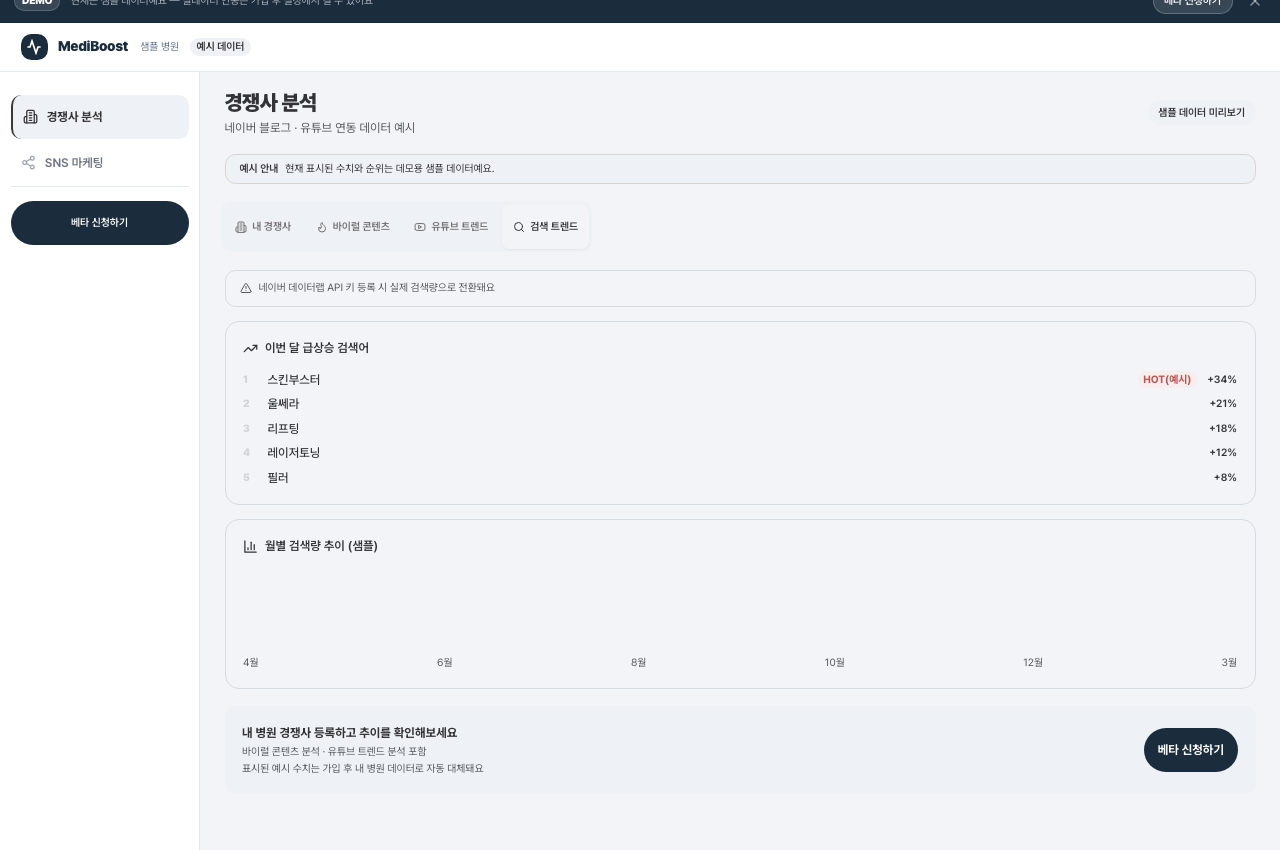
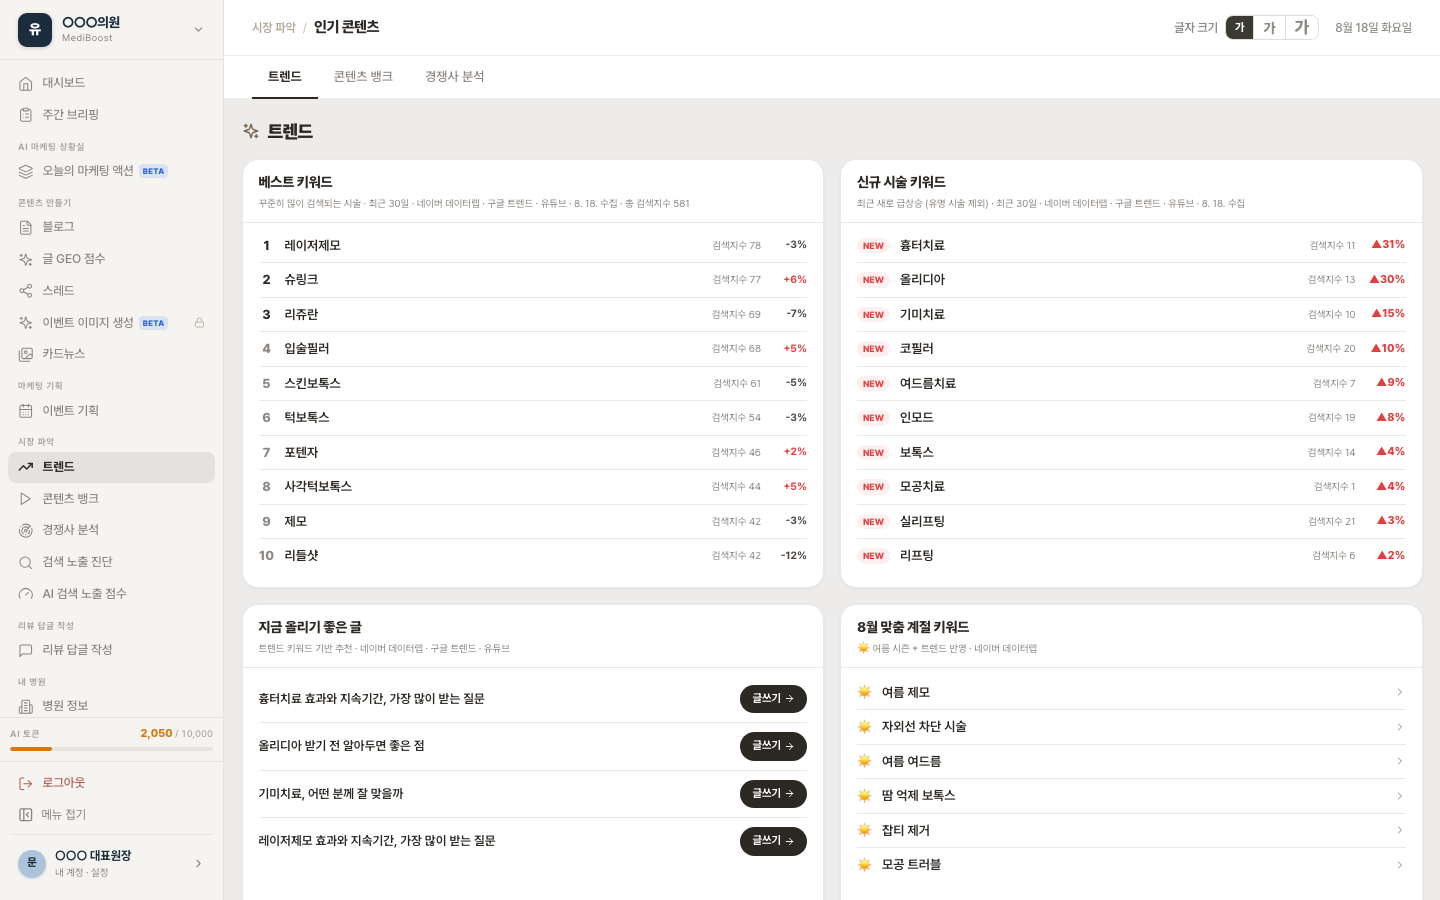
V1 트렌드 실화면 교체 · 순위 슬라이드 재구성 · 영문 캡처 정리
- 계절 키워드 슬라이드를 메디부스트 V1 로그인 대시보드 실화면으로
  교체 (베스트 키워드 · 신규 급상승 · 8월 맞춤 계절 키워드 · 글쓰기
  연결, 병원명 · 원장명 마스킹)
- '검색 결과에 없는 원장의 경력': 숫자 4칸을 상단 가로로, GEO
  모니터 검색어별 순위 패널을 메인 크기로 (메디부스트 자체 툴 표기,
  미노출 회색 줄 강조)
- 신규 영문 페이지 캡처: 약제 사진 블러 해제, 인물 사진만 블러
- 사례 진단 제목 '계약 후 첫 작업 · 12항목 진단'

diff --git a/index.html b/index.html
@@ -1832,13 +1832,13 @@
   <section class="slide content">
     <span class="eyebrow accent">트리 칸 · 방문당 시술 수</span>
     <h2>계절 키워드로 잡는 이벤트 · 패키지 시점</h2>
-    <p class="rsub">시술 검색 트렌드 모니터링 화면 · 예시 데이터</p>
+    <p class="rsub">시술 검색 트렌드 모니터링 · 실제 화면 · 병원명 가림</p>
     <div class="ev side">
-      <div class="evshot"><div class="eh"><b>검색 트렌드</b> · 급상승 검색어 · 월별 추이<span class="src">예시 데이터</span></div>
+      <div class="evshot"><div class="eh"><b>트렌드 · 계절 키워드</b> · 베스트 · 신규 급상승 · 8월 맞춤<span class="src">메디부스트 화면 · 병원명 가림</span></div>
         <figure><img src="assets/work/mb-trend.png" alt="검색 트렌드 화면" /></figure></div>
       <div>
         <ul class="wlist">
-          <li>보톡스 · 리프팅 · 토닝, 시술마다 <b>검색이 오르는 계절이 다름</b></li>
+          <li>베스트 키워드 · 신규 급상승 시술 · <b>월별 맞춤 계절 키워드</b></li>
           <li>오르기 전 달에 <b>이벤트 · 패키지 구성</b> · 콘텐츠 발행</li>
           <li>패키지는 방문당 시술 수를 올리는 도구 · 트리의 오른쪽 칸</li>
         </ul>
@@ -1962,19 +1962,17 @@
     <span class="eyebrow accent">처음 검색해 봤더니</span>
     <h2>검색 결과에 없는 원장의 경력</h2>
     <p class="rsub">서울의 한 피부과 · SCI 논문 · 학회 강연 11건 · 방송 자문 이력</p>
-    <div class="ev side">
-      <div>
-        <div class="numrow" style="margin-bottom:14px;grid-template-columns:1fr 1fr">
-          <div><div class="nv down">2<small>/28</small></div><div class="nl">추적 검색어 중 Google Top 20 진입</div><div class="nd">나머지 26개는 미노출</div></div>
-          <div><div class="nv down">0<small>개</small></div><div class="nl">홈페이지 구조화 데이터</div></div>
-          <div><div class="nv" style="color:var(--ink-soft)">154<small>건</small></div><div class="nl">로그인 뒤에 잠긴 원장 답변</div></div>
-          <div><div class="nv" style="color:var(--ink-soft)">11<small>건</small></div><div class="nl">검색되지 않는 학회 이력</div></div>
-        </div>
-        <p class="note">경력이 없는 원장님이 아니라, 온라인에 안 나와 있던 것</p>
-      </div>
-      <div class="evshot"><div class="eh"><b>GEO 모니터</b> · 시작 시점 검색어 순위<span class="src">병원명 가림</span></div>
-        <figure><img src="assets/work/monitor-yoon.png" alt="시작 시점 검색어 순위" /></figure></div>
+    <div style="display:flex;flex-direction:column;gap:12px;flex:1;min-height:0">
+    <div class="numrow" style="grid-template-columns:repeat(4,1fr)">
+      <div><div class="nv down">2<small>/28</small></div><div class="nl">추적 검색어 중 Google Top 20 진입</div></div>
+      <div><div class="nv down">0<small>개</small></div><div class="nl">홈페이지 구조화 데이터</div></div>
+      <div><div class="nv" style="color:var(--ink-soft)">154<small>건</small></div><div class="nl">로그인 뒤에 잠긴 원장 답변</div></div>
+      <div><div class="nv" style="color:var(--ink-soft)">11<small>건</small></div><div class="nl">검색되지 않는 학회 이력</div></div>
     </div>
+    <div class="evshot" style="flex:1;min-height:0"><div class="eh"><b>GEO 모니터</b> · 검색어별 순위 · 시작 시점<span class="src">메디부스트 자체 툴 · 병원명 · 지역명 가림</span></div>
+      <figure><img src="assets/work/monitor-ranks.png" alt="검색어별 순위" style="object-position:top" /></figure></div>
+    </div>
+    <p class="note">막대가 없는 회색 줄이 전부 미노출 검색어 · 경력이 없는 원장님이 아니라, 온라인에 안 나와 있던 것</p>
   </section>
 
   <section class="slide content tint">
